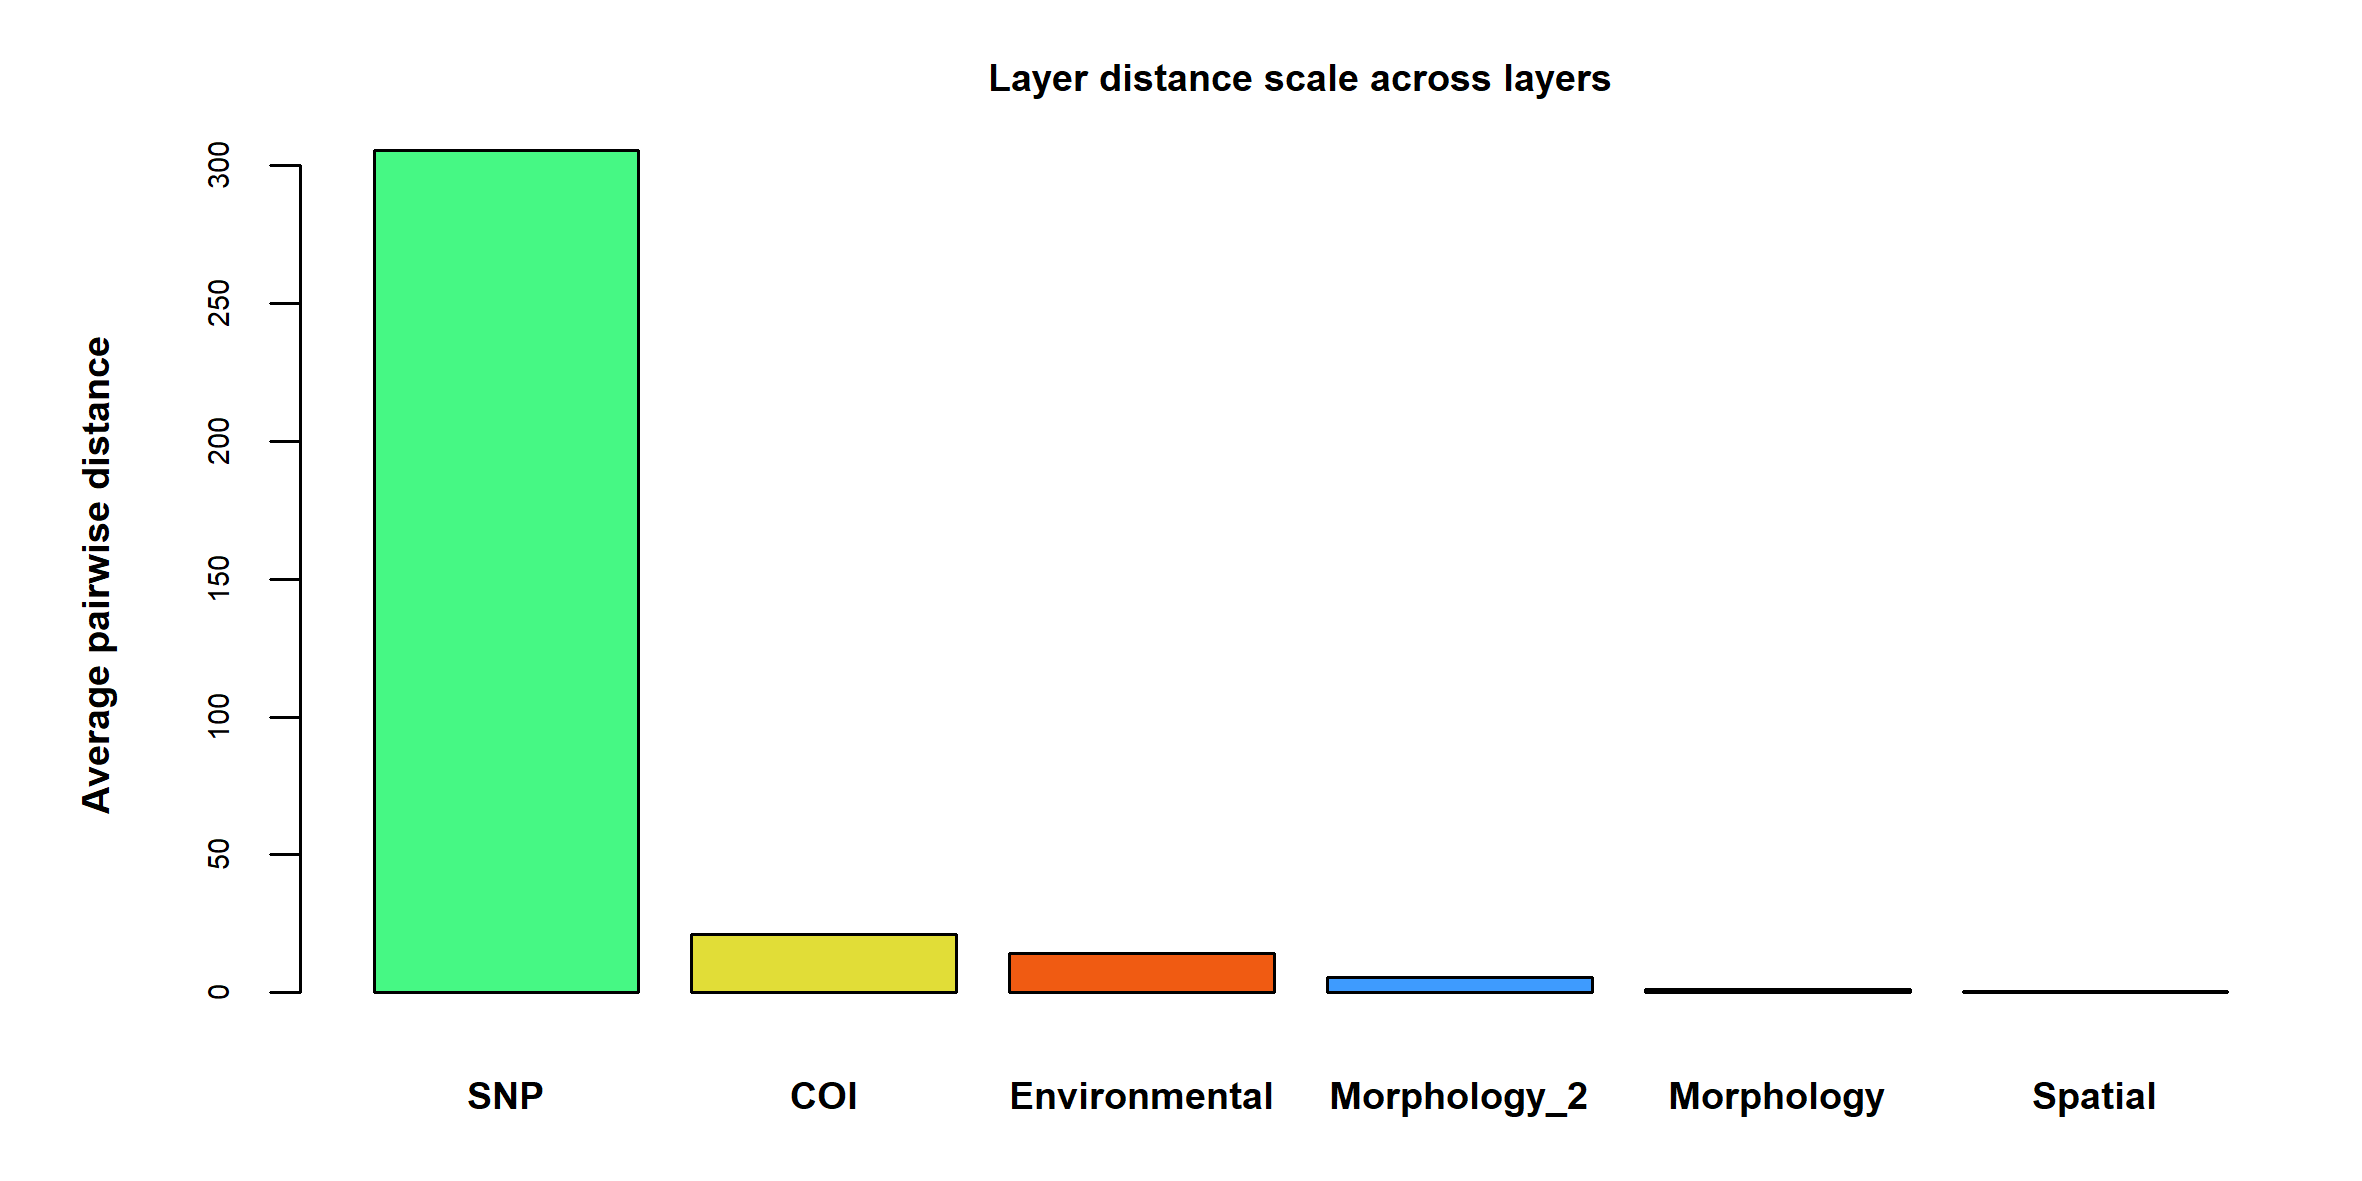
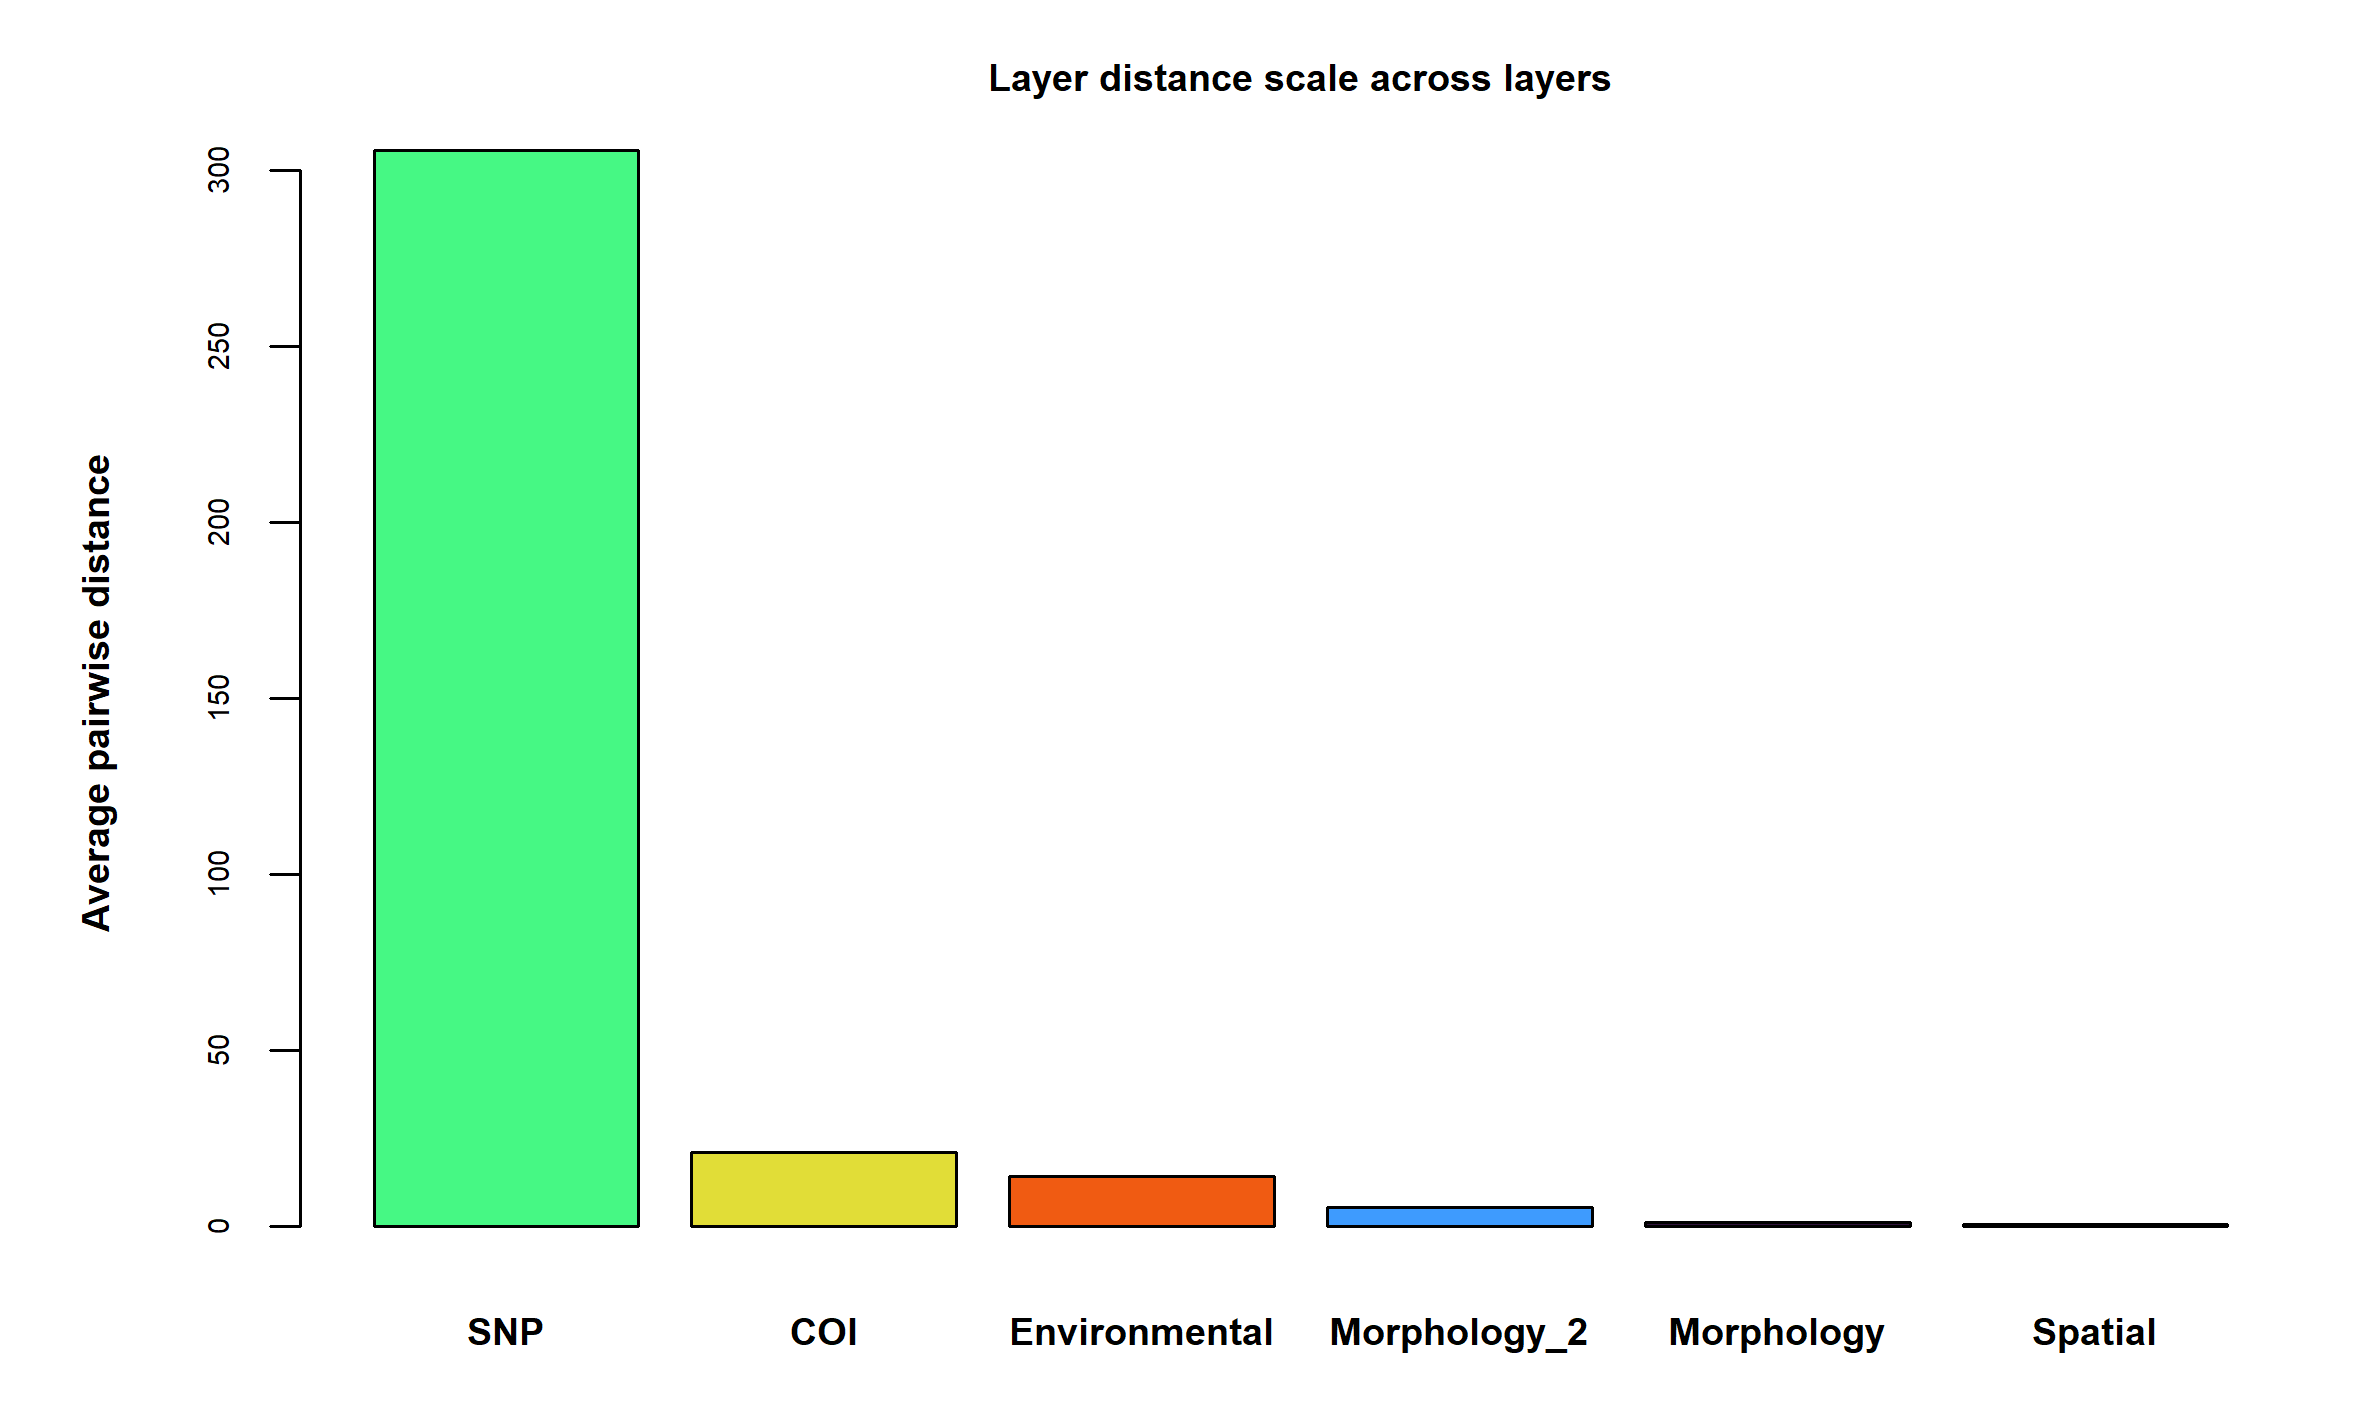
README update

diff --git a/README.md b/README.md
@@ -656,7 +656,7 @@ plot.layer.distance.scale.SOM(Polygonia_SOM)
 It visualizes the support profile across candidate K values, successive changes in BIC, and the frequency with which each K was selected across retained SOM replicates.
 The full support profile should be considered rather than relying only on the most frequently selected K, because selection frequency alone does not show how strongly the selected K is supported relative to alternative K values.
 
-In our empirical example below, 
+In our empirical example below, we see a clear BIC elbow at K = 3, where the largest improvement in fit occurs before subsequent reductions in BIC become much smaller, so that K = 3 is selected in 88% of SOM replicates, followed by K = 4 in 12%.
 
 ```r
 plot.K.SOM(Polygonia_SOM)
@@ -669,25 +669,38 @@ plot.K.SOM(Polygonia_SOM)
 
 ### 5.4 Visualize SOM topology and candidate lineages
 
-We next visualize the trained SOM topology and inferred candidate lineages for a representative replicate.
-The neighbor-distance panel shows distances among adjacent SOM units, with darker regions indicating larger distances and potential boundaries or "ridges" in map space.
-The clustering panel shows the inferred candidate-lineage boundaries.
+We next visualize the trained SOM topology and inferred candidate lineages for a representative replicate using `plot.model.SOM()`.
+The representative replicate is chosen based on ...
+
+The top neighbor-distance panel is a common SOM U-matrix plot (Ultsch 1993; Vesanto & Alhoniemi 2000; Wehrens & Buydens 2007) showing distances among adjacent SOM units for the representative replicate.
+Darker areas indicating relatively large distances between adjacent codebook vectors and mark boundaries (“ridges”) between groups. 
+Light areas indicating lower-distance “valleys,” so more internally similar areas of the map.
+Candidate lineages are therefore expected to occupy in these lighter valleys separated from one another by darker ridges.
+
+The bottom clustering panel shows the inferred candidate-lineage boundaries for the same representative replicate.
+Individuals are shown at the SOM units to which they were mapped, and the red boundaries separate the inferred candidate lineages.
+
+Below, we see three compact yellow valleys that are clearly separated by dark-blue boundaries or ridges that correspond closely to the inferred candidate-lineage boundaries in the bottom plot. 
+This strongly supports the three inferred candidate lineages.
+It also provides a clear example of a coherent SOM topology with well-defined and contiguous cluster structure, whereas in other empirical datasets the ridges are often weaker or less distinct, the valleys more irregular or fragmented, or transitions between candidate lineages more gradual (as in some empirical examples in Schönberger et al. preprint).
 
 ```r
 plot.model.SOM(Polygonia_SOM, replicate.mode = "representative")
 ```
 
-Specific K values can also be inspected using the `set.k` argument:
+<p align="center">
+  <img src="figures/Figure_model.png">
+</p>
 
 ```r
 plot.model.SOM(Polygonia_SOM,
                replicate.mode = "representative",
-               set.k = 3)
-
-plot.model.SOM(Polygonia_SOM,
-               replicate.mode = "representative",
                set.k = 4)
 ```
+<p align="center">
+  <img src="figures/Figure_model_k4.png">
+</p>
+
 
 ### 5.5 Plot replicate-consensus assignments
 
@@ -924,6 +937,18 @@ By default, alternative values from K = 1 to `max.k` are evaluated and the optim
 Clustering can also be rerun for a single K value by supplying `set.k`, which bypasses automatic K-selection while retaining the replicate SOM framework.
 This is useful when automatic K-selection fails after visual inspection of the BIC curve or when multiple K values receive substantial support and results for a specific solution are desired.
 
+
+Specific K values can also be inspected using the `set.k` argument:
+
+```r
+plot.model.SOM(Polygonia_SOM,
+               replicate.mode = "representative",
+               set.k = 3)
+
+plot.model.SOM(Polygonia_SOM,
+               replicate.mode = "representative",
+               set.k = 4)
+```
 Example forcing a three-lineage solution:
 
 ```r
